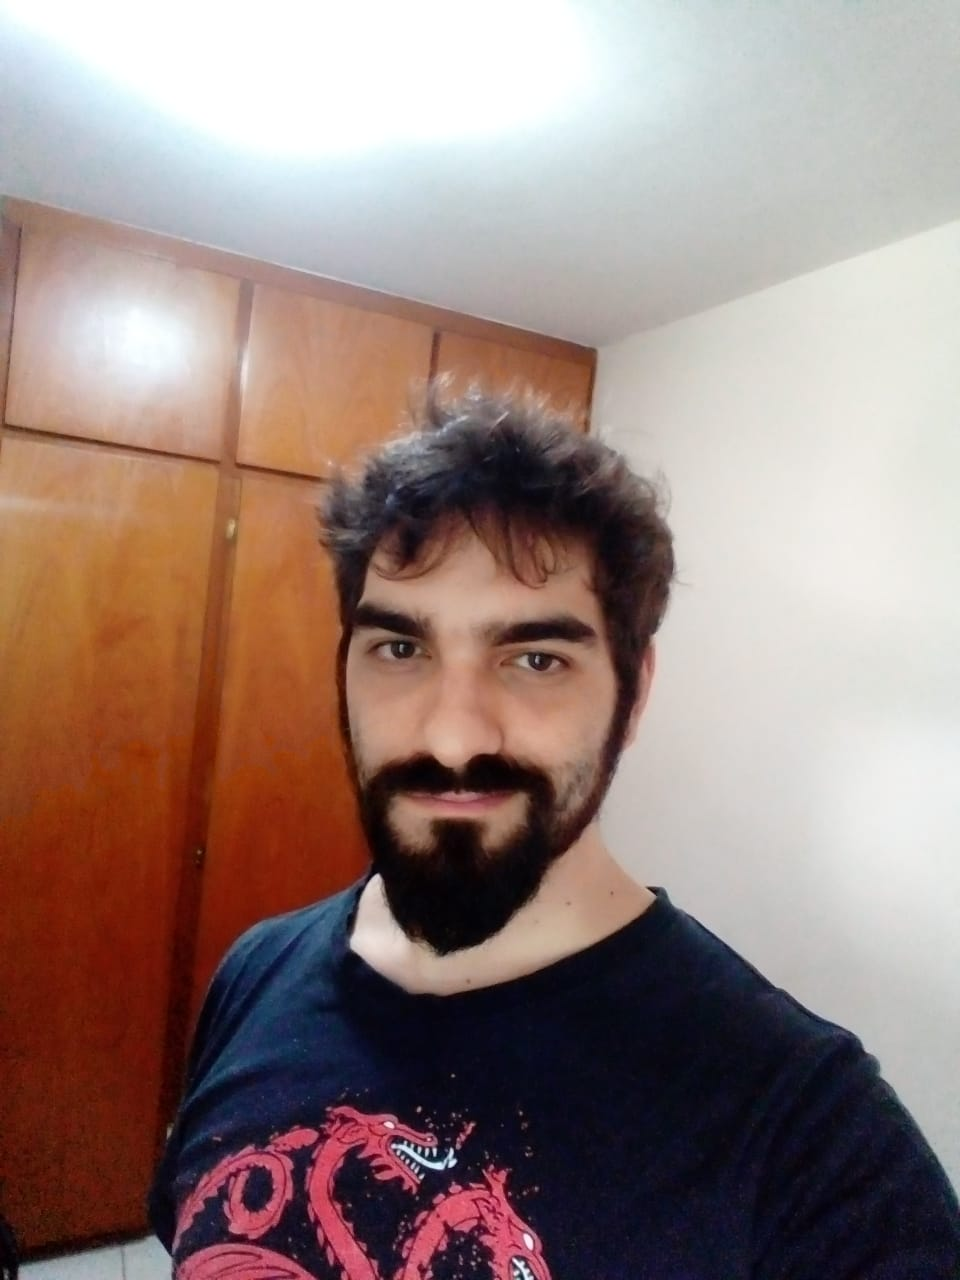
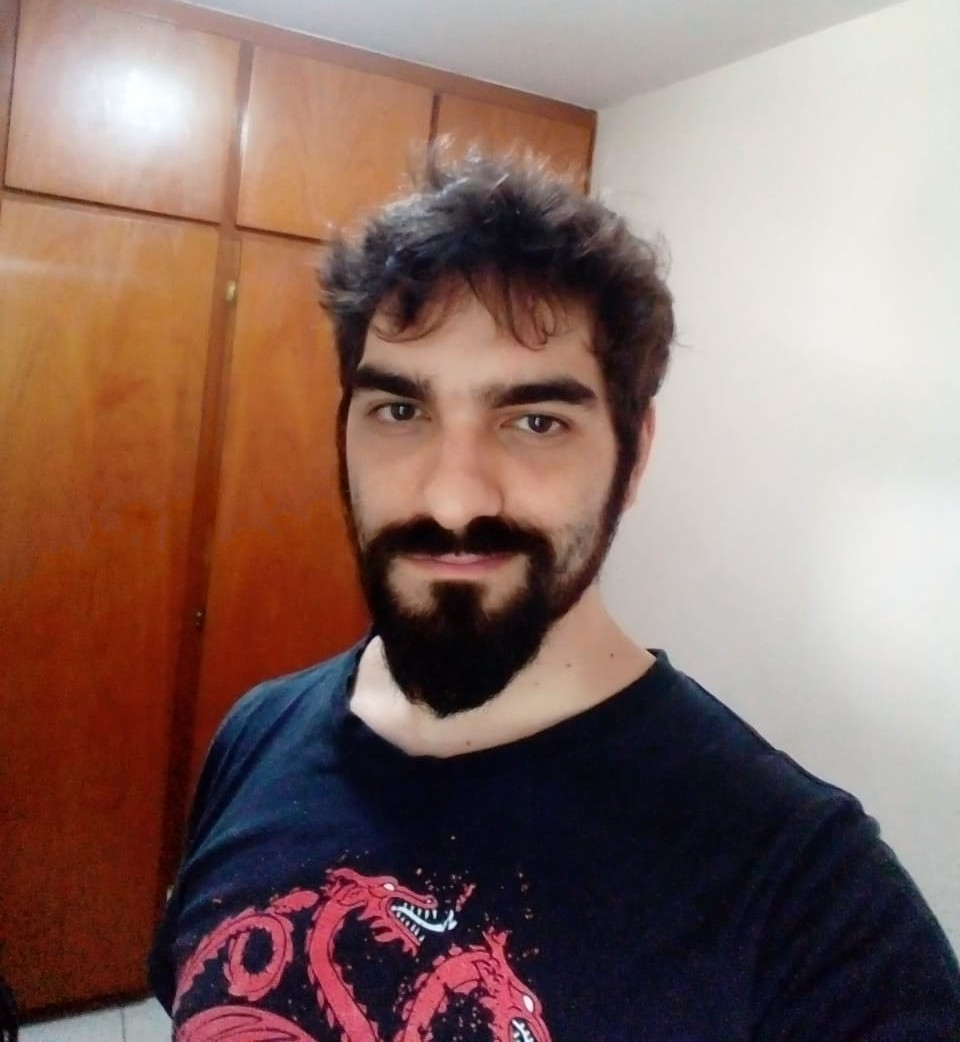
Fixed profile pic and put descriptive text beside it

diff --git a/index.html b/index.html
@@ -10,6 +10,7 @@
             font-family: Nunito, sans-serif;
             font-size: 18px;
             background-color: #ECE0DE;
+            padding: 64px 80px;
         }
 
         h1, h2, h3, h4 {
@@ -22,10 +23,19 @@
             font-size: 42px;
         }
 
+        .Index {
+            padding: 24px 0;
+        }
+
+        .Index h2 {
+            font-weight: 700;
+            padding-bottom: 24px;
+        }
+
         .Index a {
             text-decoration: none;
             padding: 10px 20px;
-            margin: 16px;
+            margin-right: 32px;
             border-radius: 50px;
             background-color: #D72520;
             color: #ECE0DE;
@@ -38,6 +48,26 @@
             color: #D72520;
         }
 
+        .profile {
+            padding: 64px 0;
+            display: flex;
+            align-content: center;
+        }
+
+        .profilePic {
+            display: inline-block;
+            padding-right: 40px;
+        }
+
+        .profilePic img {
+            width: 200px;
+        }
+
+        .profileText {
+            display: inline-block;
+            width: 70%;
+        }
+
     </style>
 
     <title>Bernardo Tomas - Portfólio</title>
@@ -47,18 +77,23 @@
     
     <br><hr><br>
     <div class="Index">
-        <h3>Índice</h3>
+        <h2>Índice</h2>
         <a href="#sobreMim">Sobre mim >></a>
         <a href="#Competencias">Principais competências >></a>
         <a href="#Links">Links variados >></a>
     </div>
 
-    <img id="pfp" src="Images/pfp.jpeg" alt="Uma foto minha" width="200px">
-
-    <h2 id="sobreMim">Sobre mim</h2>
-    <p>
-        Localizado em <em>São Paulo, SP, Brasil</em>, com 6 anos de experiência ensinando Inglês e 2 anos de webdesign, comecei a estudar na Trybe a fim de aprender direito como funciona a internet, criar novas habilidades de desenvolvimento web e, com uma base de aptidões sociais que adquiri durante meus anos como professor, conseguir as soft skills necessárias para ingressar no mercado de programação.
-    </p>
+    <div class="profile">
+        <div class="profilePic">
+            <img id="pfp" src="Images/pfp.jpeg" alt="Uma foto minha">
+        </div>
+        <div class="profileText">
+            <h2 id="sobreMim">Sobre mim</h2>
+            <p>
+                Localizado em <em>São Paulo, SP, Brasil</em>, com 6 anos de experiência ensinando Inglês e 2 anos de webdesign, comecei a estudar na Trybe a fim de aprender direito como funciona a internet, criar novas habilidades de desenvolvimento web e, com uma base de aptidões sociais que adquiri durante meus anos como professor, conseguir as soft skills necessárias para ingressar no mercado de programação.
+            </p>
+        </div>
+    </div>
 
     <br><hr><br>
 
